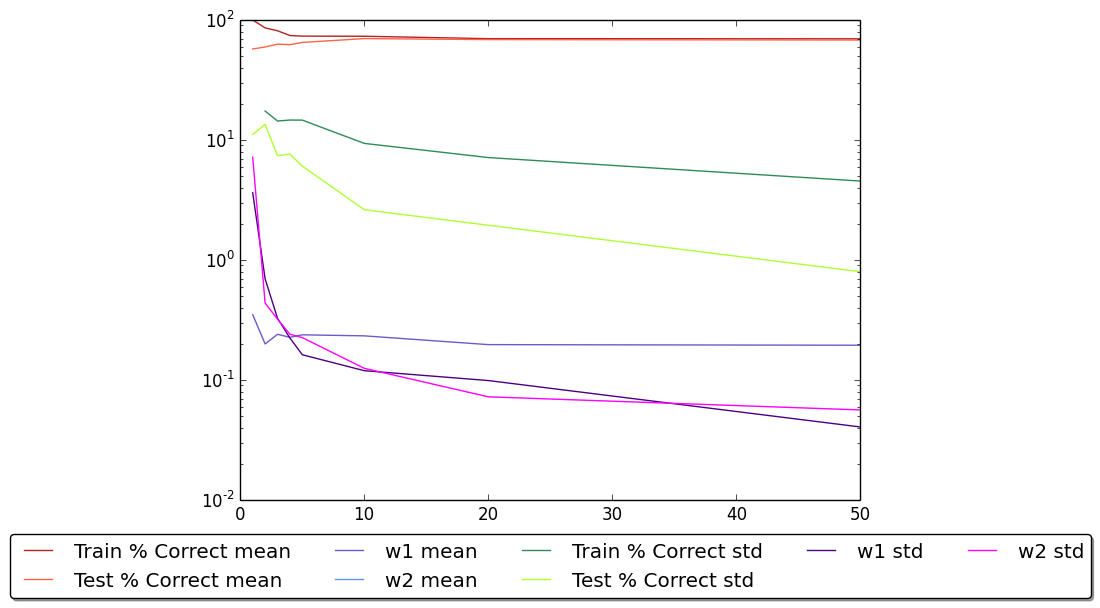
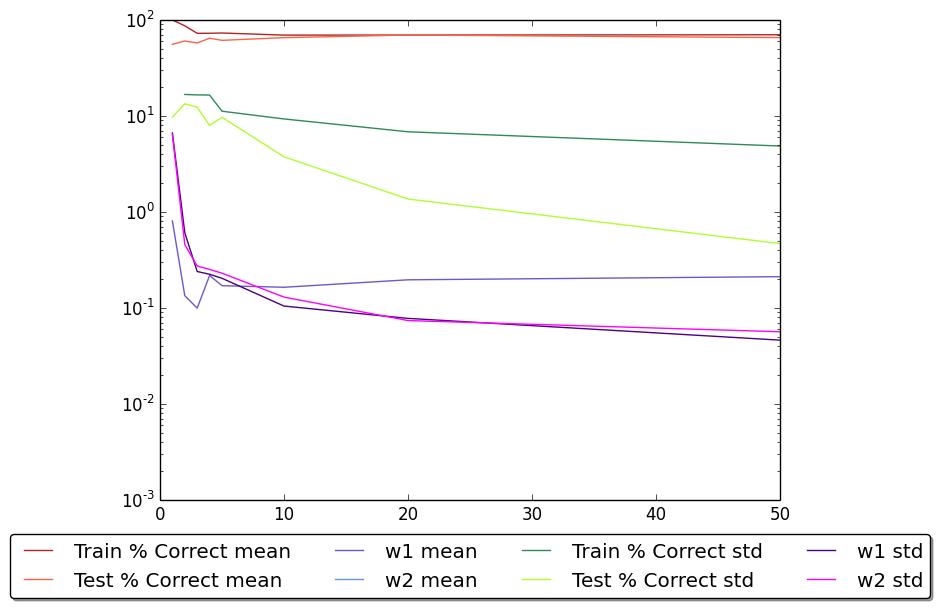
fix column alignment in legend

diff --git a/E7/7.2.py b/E7/7.2.py
@@ -141,7 +141,7 @@ mplt.plot(perclasssample_list, percent_correct_for_train_stds, color='seagreen',
 mplt.plot(perclasssample_list, percent_correct_for_test_stds, color='greenyellow',  label='Test % Correct std')
 mplt.plot(perclasssample_list, weightx_stds, color='indigo',  label='w1 std')
 mplt.plot(perclasssample_list, weighty_stds, color='fuchsia',  label='w2 std')
-mplt.legend(loc='upper center', bbox_to_anchor=(0.5, -0.05), fancybox=True, shadow=True, ncol=5)
+mplt.legend(loc='upper center', bbox_to_anchor=(0.5, -0.05), fancybox=True, shadow=True, ncol=4)
 mplt.savefig('7.2.png', bbox_inches='tight')
 mplt.clf()
 
